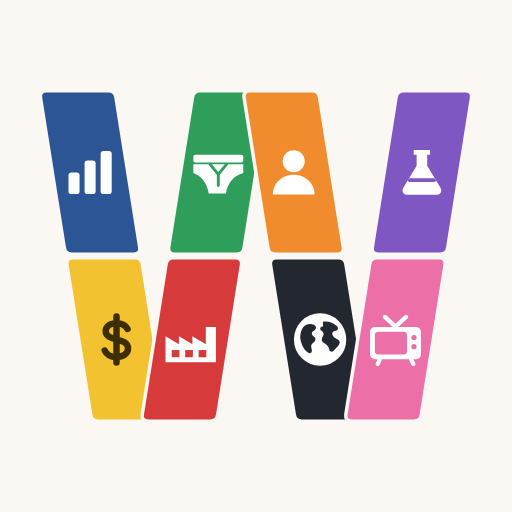
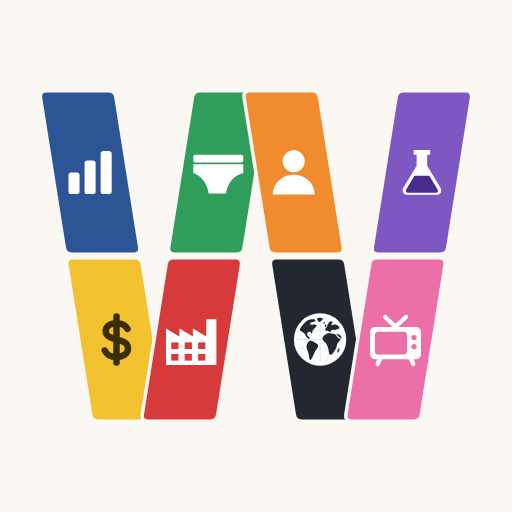
匯入廠商進貨時核對每張單的進貨總額；W 圖示第三版（工廠加高、燒瓶填色、地球大陸精細）
- 同一張單的品項總額加起來和單上的進貨總額比對，不同就在確認視窗列出單號
- 測試資料改用新範本的欄名（進貨單號／退貨單號）
- 圖示：工廠整體加高、三角褲拿掉 Y 字車線、燒瓶裡的水填深紫色並留空隙、地球的大陸畫精細

Claude-Session: https://claude.ai/code/session_01EbZCET9aCDKd8NzKoi6953

diff --git a/js/app.js b/js/app.js
@@ -1363,11 +1363,18 @@
     const rt = (g) => (!g ? '' : g.by === 'date' ? ROC_RANGE(g.from, g.to) : `單號月份 ${g.from === g.to ? ymLabel(g.from) : ymLabel(g.from) + '～' + ymLabel(g.to)}`);
     const rng = [P.range[0] && `進貨 ${rt(P.range[0])}`, P.range[1] && `退回 ${rt(P.range[1])}`].filter(Boolean).join('；');
     const vends = new Set(add.cols.vend).size;
+    // 同一張單的品項總額加起來，應該等於單上的進貨總額（只寫在第一列）
+    const sums = new Map();
+    add.src.forEach((sv, i) => { const k = sv + '|' + add.cols.ord[i]; const o = sums.get(k) || { s: 0, t: 0 }; o.s += add.cols.amt[i]; if (add.cols.tot[i]) o.t = add.cols.tot[i]; sums.set(k, o); });
+    const badTot = [...sums.entries()].filter(([, o]) => o.t && Math.abs(o.s - o.t) >= 1);
+    const withTot = [...sums.values()].filter((o) => o.t).length;
     const desc = `<p>「${esc(names)}」：<strong>${nf0.format(add.nIn)}</strong> 筆進貨、<strong>${nf0.format(add.nBk)}</strong> 筆退回廠商，${nf0.format(vends)} 家廠商（${esc(rng)}）。</p><ul>` +
       `<li>新的單：<strong>${nf0.format(nNew)}</strong> 張（進貨 ${nf0.format(P.nNew[0])}、退回 ${nf0.format(P.nNew[1])}），直接加入。</li>` +
       (nUpd ? `<li>網站裡已經有的單：${nf0.format(nUpd)} 張，改用新資料${P.nChanged ? `（其中 ${nf0.format(P.nChanged)} 張內容有變動）` : '（內容都一樣）'}。</li>` : '') + '</ul>' +
       (add.dated < add.n ? `<p class="hint">${nf0.format(add.n - add.dated)} 筆沒有打單日期，月份改用單號前 5 碼。</p>` : '') +
       (add.warning ? `<p class="warn">${esc(add.warning)}</p>` : '') +
+      (badTot.length ? `<p class="warn">有 <strong>${nf0.format(badTot.length)}</strong> 張單的品項總額加起來，和單上的「進貨總額」不一樣：${esc(ex(badTot, ([k, o]) => `${k.slice(2)}（品項合計 ${fmt.money(o.s)}、單上 ${fmt.money(o.t)}）`))}。網站用品項總額加總，請到系統確認這幾張單。</p>`
+        : withTot ? `<p class="hint">已核對：${nf0.format(withTot)} 張單的品項總額加起來，都等於單上的進貨總額。</p>` : '') +
       (miss.length ? `<p class="warn">這段期間內有 <strong>${nf0.format(miss.length)}</strong> 張單網站裡有、這次的檔案裡沒有，多半是系統裡已經作廢或刪除：${esc(ex(miss, (m) => (m.src ? '退回 ' : '') + m.ord))}</p><p class="hint">如果這次匯出的不是這段期間的全部資料，請不要勾選刪除。</p>` : '');
     const v = await ask({ title: '確認加入廠商進貨資料', desc, fields: [], submit: '加入',
       check: miss.length ? { name: 'del', label: `從網站刪除這 ${miss.length} 張系統裡已經沒有的單`, checked: false } : null });

diff --git a/sw.js b/sw.js
@@ -1,5 +1,5 @@
 // 離線快取：程式本身可離線開啟；資料存在 IndexedDB，不經過這裡。
-const VERSION = 'v36';
+const VERSION = 'v37';
 const SHELL = ['./', 'index.html', 'css/app.css', 'js/app.js', 'js/engine.js', 'js/dataset.js', 'js/chart.js', 'js/period.js', 'js/recv.js', 'js/recv-backup.js', 'js/buy.js', 'js/dashboard.js', 'js/report.js', 'js/today.js', 'js/compare.js', 'js/reps.js', 'js/board.js', 'js/demo.js', 'js/worker.js', 'js/xlsx-stream.js', 'js/dbf.js', 'js/office-crypto.js', 'js/ingest.js', 'manifest.webmanifest', 'icons/icon.svg', 'icons/icon-192.png', 'icons/icon-180.png'];
 self.addEventListener('install', (e) => { e.waitUntil(caches.open(VERSION).then((c) => c.addAll(SHELL)).then(() => self.skipWaiting())); });
 self.addEventListener('activate', (e) => { e.waitUntil(caches.keys().then((ks) => Promise.all(ks.filter((k) => k !== VERSION).map((k) => caches.delete(k)))).then(() => self.clients.claim())); });

diff --git a/tests/make_icon.py b/tests/make_icon.py
@@ -13,16 +13,25 @@ GL = ['chart', 'money', 'factory', 'briefs', 'person', 'globe', 'tv', 'lab']
 GLY = {
  'chart': '<rect x="3" y="12" width="4.6" height="9" rx="1.2"/><rect x="9.7" y="7" width="4.6" height="14" rx="1.2"/><rect x="16.4" y="3" width="4.6" height="18" rx="1.2"/>',
  'money': '<path d="M16.6 7.6c-.8-1.6-2.5-2.4-4.6-2.4-2.6 0-4.5 1.3-4.5 3.3 0 4.6 9.3 2.4 9.3 7.2 0 2.1-2 3.6-4.9 3.6-2.2 0-4-.9-4.8-2.7M12 2.4v19.2" fill="none" stroke="currentColor" stroke-width="2.7" stroke-linecap="round" stroke-linejoin="round"/>',
- # 工廠：煙囪短、廠房大
- 'factory': '<path d="M1 21.5V10.6l5.6 3.4v-3.4l5.6 3.4v-3.4l5.6 3.4V6.8h4.2v14.7z"/><rect x="3.6" y="16.4" width="3.2" height="3" fill="BG"/><rect x="9.2" y="16.4" width="3.2" height="3" fill="BG"/><rect x="14.8" y="16.4" width="3.2" height="3" fill="BG"/>',
+ # 工廠：煙囪短、廠房高（2026-11-17 第三版：整體加高、不加寬）
+ 'factory': '<path d="M1.2 22.6V7.4l5.6 3.4V7.4l5.6 3.4V7.4l5.6 3.4V3.6h4.2v19z"/><g fill="BG"><rect x="3.4" y="13.2" width="3" height="2.8"/><rect x="9" y="13.2" width="3" height="2.8"/><rect x="14.6" y="13.2" width="3" height="2.8"/><rect x="3.4" y="18" width="3" height="2.8"/><rect x="9" y="18" width="3" height="2.8"/><rect x="14.6" y="18" width="3" height="2.8"/></g>',
  'person': '<circle cx="12" cy="7.3" r="4.6"/><path d="M3.3 21.2c0-4.8 3.9-8.3 8.7-8.3s8.7 3.5 8.7 8.3z"/>',
- # 男生三角褲：腰頭、兩側有寬度、前面 Y 字車線
- 'briefs': '<rect x="1.6" y="4.6" width="20.8" height="3.2" rx=".8"/><path d="M1.6 8.6h20.8v3.6c-3.9 1-6.6 4.2-7.2 8.6H8C7.4 16.4 4.7 13.2 1.6 12.2z"/><path d="M8.6 8.6l3.4 4.2 3.4-4.2M12 12.8v4.6" fill="none" stroke="BG" stroke-width="1.2" stroke-linecap="round" stroke-linejoin="round"/>',
+ # 男生三角褲：腰頭、兩側有寬度（使用者說不要 Y 字車線）
+ 'briefs': '<rect x="1.6" y="4.6" width="20.8" height="3.2" rx=".8"/><path d="M1.6 8.6h20.8v3.6c-3.9 1-6.6 4.2-7.2 8.6H8C7.4 16.4 4.7 13.2 1.6 12.2z"/>',
  # 地球（上面有地圖）
- 'globe': '<circle cx="12" cy="12" r="10.2"/><g fill="BG"><path d="M5.7 6.2c1.6-.9 3.6-.8 4.4.3.6.8-.3 1.7-1.1 2.2-.8.6-.4 1.6.5 2.2 1 .7.6 2-.4 2.5-.9.5-1 1.6-.6 2.7.3 1-.2 1.9-1.1 1.5C5.6 17 4.4 14.4 3.9 12.4c-.5-2 .2-5 1.8-6.2z"/><path d="M13.2 4.6c2-.4 4.3.3 5.8 1.8.8.9.4 1.9-.5 2-1.2.1-1.7 1-1.2 1.9.5 1.1 1.7 1.3 2.6 2.1.6.6.2 1.7-.5 2.4l-1.9 2c-.6.6-1.6.3-1.7-.6-.2-1.4-1.2-2.1-2.3-2.8-1-.6-1-1.9-.3-2.8.6-.8.1-1.7-.6-2.2-.9-.7-.7-1.8.6-1.8z"/></g><circle cx="12" cy="12" r="10.2" fill="none" stroke="currentColor" stroke-width="1.4"/>',
+ # 地球：上面有大陸（北美、格陵蘭、南美、歐洲、英國、非洲、阿拉伯、馬達加斯加）和淡淡的經緯線（2026-11-17 使用者要求畫精細一點）
+ 'globe': '<circle cx="12" cy="12" r="10.2"/><g fill="none" stroke="#dfe4ea" stroke-width=".35"><ellipse cx="12" cy="12" rx="4.6" ry="10.2"/><path d="M12 1.8v20.4M2.6 8h18.8M2.6 16h18.8M1.8 12h20.4"/></g><g fill="BG">'
+   '<path d="M2.9 7.1C3.4 5.8 4.6 4.6 6.1 4c1.2-.4 2.5-.6 3.6-.4l.5.7-.8.3c-.4.3-1 .1-1.4.4-.4.3-.1.9.5.9.5.1.8-.3 1.3-.2l.8.5c-.2.6-.7 1-1.2 1.4-.4.4-.7.8-.6 1.4l-.2.7c-.3-.3-.4-.8-.8-.9-.6-.1-1 .2-1.2.7-.1.6.3 1.1.8 1.5l.4.7-.4.1c-.6-.4-1.2-.9-1.5-1.6-.3-.7-.9-1.2-1.6-1.5-.5-.3-1-.9-1.4-1.6z"/>'
+   '<path d="M10.6 3.2c.8-.4 2-.4 2.6.1-.2.8-.9 1.3-1.6 1.5-.5-.5-.8-1-1-1.6z"/><ellipse cx="13.7" cy="5.1" rx=".45" ry=".28"/>'
+   '<path d="M7.6 12.6c.7-.2 1.5.1 2.2.6.8.4 1.5.8 1.4 1.6-.2.8-.8 1.3-1.2 2-.4.8-.7 1.7-1.2 2.6-.4.7-.8 1.4-1.2 1.7-.1-.9-.1-1.9-.3-2.8-.2-1-.7-1.9-.9-2.9-.2-.9.4-2.5 1.2-2.8z"/>'
+   '<path d="M14.2 8.3c-.2-.7.2-1.3.7-1.6 0-.7.5-1.5 1.1-2.1.5-.4 1.1-.3 1.2.2-.4.5-.6 1-.3 1.4.5-.2.9-.6 1.5-.5.8.2 1.6.7 2 1.3l-.8.6c-.6-.1-1 .3-1.4.5-.6-.3-1.2-.2-1.6.1-.3.4-.2.7-.6.8-.4-.4-.7-.7-1.2-.6z"/><path d="M14 5.9c.4-.3.7.1.6.6-.2.4-.6.3-.7-.1z"/>'
+   '<path d="M14.1 10c.7-.6 1.7-.7 2.6-.5.7.1 1.3.1 1.8.5.5.6.8 1.3 1.5 1.6h.6c-.2.8-.8 1.4-1.3 2-.4.6-.3 1.4-.7 2.1-.4.9-1 1.7-1.6 2.4-.4.4-1 .3-1.2-.2-.3-.9-.2-1.9-.6-2.8-.3-.7-.5-1.5-1.2-2-.6-.4-1.1-1-1-1.7.1-.6.6-1 1.1-1.4z"/>'
+   '<path d="M18.8 9.7c.7-.1 1.4.3 1.9.8.3.4.3.7-.1.9-.6-.3-1.2-.8-1.8-1.7z"/><ellipse cx="19.6" cy="16.6" rx=".33" ry=".95" transform="rotate(18 19.6 16.6)"/></g>'
+   '<circle cx="12" cy="12" r="10.2" fill="none" stroke="currentColor" stroke-width="1.4"/>',
  # 電視：天線、螢幕、旋鈕
  'tv': '<path d="M7.6 2.6 12 6.6l4.4-4" fill="none" stroke="currentColor" stroke-width="1.8" stroke-linecap="round" stroke-linejoin="round"/><rect x="1.4" y="6.8" width="21.2" height="13.4" rx="2"/><rect x="3.4" y="8.8" width="13.4" height="9.4" rx="1.4" fill="BG"/><circle cx="19.7" cy="11.2" r="1.1" fill="BG"/><circle cx="19.7" cy="15" r="1.1" fill="BG"/><path d="M5.5 20.2 4.6 22.2M18.5 20.2l.9 2" stroke="currentColor" stroke-width="1.8" stroke-linecap="round"/>',
- 'lab': '<path d="M8.6 2.6h6.8v2h-1.2v4.6l5.6 9.3a1.8 1.8 0 0 1-1.5 2.8H5.7a1.8 1.8 0 0 1-1.5-2.8l5.6-9.3V4.6H8.6z"/><path d="M7 15.2h10" stroke="BG" stroke-width="1.6" stroke-linecap="round"/>',
+ # 燒瓶：裡面的水填深紫色，和瓶子之間留一圈白色空隙
+ 'lab': '<path d="M8.6 2.6h6.8v2h-1.2v4.6l5.6 9.3a1.8 1.8 0 0 1-1.5 2.8H5.7a1.8 1.8 0 0 1-1.5-2.8l5.6-9.3V4.6H8.6z"/><path d="M8.9 13.4h6.2l3.5 5.8a.8.8 0 0 1-.7 1.2H6.1a.8.8 0 0 1-.7-1.2z" fill="#4A2C8F"/>',
 }
 def para(cx, cy, a, b, t, sg, r):
     """斜的平行四邊形（上下邊水平），角稍微圓一點"""

diff --git a/tests/make_fixtures.py b/tests/make_fixtures.py
@@ -332,9 +332,9 @@ INC_FIELDS = [('DELIVNO', 'C', 9, 0), ('DELIVORD', 'C', 2, 0), ('CODE', 'C', 2, 
               ('RECDATE', 'C', 7, 0), ('RECEIVE', 'N', 12, 0), ('TOTBKPAY', 'N', 12, 0), ('PAY', 'L', 1, 0), ('CNFLAG', 'C', 1, 0), ('NRCHKDATE', 'C', 7, 0),
               ('NRRANGE', 'N', 4, 0), ('ALLOW', 'N', 4, 0), ('XID', 'C', 6, 0), ('XNAME', 'C', 20, 0), ('AMOUNT', 'N', 12, 0), ('DELIVDATE', 'C', 7, 0)]
 IBK_FIELDS = INC_FIELDS[:1] + [('SERIES', 'C', 4, 0)] + INC_FIELDS[1:]
-INC_HEAD = ['進貨日期', 'DELIVORD', '商品類別', '商品代號', '顏色代號', '單位', 'TRAN_RATE', '單價', '成本', '數量', '單位(數字)', '品項總額', 'RECDATE', 'RECEIVE',
+INC_HEAD = ['進貨單號', 'DELIVORD', '商品類別', '商品代號', '顏色代號', '單位', 'TRAN_RATE', '單價', '成本', '數量', '單位(數字)', '品項總額', 'RECDATE', 'RECEIVE',
             'TOTBKPAY', 'PAY', 'CNFLAG', 'NRCHKDATE', 'NRRANGE', 'ALLOW', '廠商代號', '廠商名', '進貨總額', '實際打單日期']
-IBK_HEAD = INC_HEAD[:1] + ['SERIES'] + INC_HEAD[1:-1] + ['打單日期']
+IBK_HEAD = ['退貨單號', 'SERIES'] + INC_HEAD[1:-1] + ['打單日期']
 VENDS = [('F01', '晨星織造'), ('F02', '和風針織'), ('F05', '巧手車縫')]
 
 

diff --git a/tests/e2e.py b/tests/e2e.py
@@ -691,6 +691,7 @@ async def buy_flow(b):
     await dlg_fill(pg, {'app': 'buy123', 'app2': 'buy123'})
     await pg.wait_for_selector('#dlg[open]', timeout=60000); t = await pg.text_content('#dlgForm')
     ok(f"{e1['nIn']} 筆進貨" in t and f"{e1['nBk']} 筆退回廠商" in t and '3 家廠商' in t, '四個 DBF 一起選：先匯客戶出貨退貨，再問要不要加入廠商進貨：' + t[:80])
+    ok(f"已核對：{e1['orders'] + e1['nBk']} 張單" in t, '核對每張單的品項總額加起來 = 單上的進貨總額')
     ok(await pg.evaluate('window.__app.E.ds.nSales') > 0, '客戶出貨資料已先匯入')
     await pg.click('#dlgOk')
     await pg.wait_for_selector('#dlg[open]'); t = await pg.text_content('#dlgForm')

diff --git a/CLAUDE.md b/CLAUDE.md
@@ -45,6 +45,7 @@ sw.js                 離線快取
 
 ### 主畫面圖示（2026-11-17 使用者設計）
 8 個斜的色塊組成 W（4 筆、每筆上下兩塊），沿著筆畫依序：藍＝銷售分析圖、黃＝錢、紅＝工廠（煙囪短、廠房大）、綠＝男生三角褲、橘＝人、黑＝地球（上面有地圖）、粉＝電視（行銷）、紫＝實驗室（燒瓶）。
+第三版（同日）：工廠整體加高（兩排窗）、三角褲不要 Y 字車線、燒瓶裡的水填深紫色並和瓶子留空隙、地球的大陸畫精細（北美、格陵蘭、南美、歐洲、非洲、阿拉伯＋淡經緯線）。
 第二版（同日使用者要求）：轉折處（兩個下尖角、中間尖角）兩筆疊上去 `OV`，切口俐落（小圓角、疊在上面的色塊有一圈底色細線）。
 `python tests/make_icon.py` 產生 `icons/icon.svg`、`icon-180.png`（iPhone 加入主畫面）、`icon-192/512.png`、`icon-maskable-512.png`（縮小到安全範圍）。首頁上方也放這個標誌（`.home-logo`）。
 
@@ -185,6 +186,7 @@ python tests/e2e.py                    # 瀏覽器實測，最後印出「全部
 新功能請在 `tests/e2e.py` 加對應的檢查。
 
 ## 目前進度與待辦（2026-11-17）
+2026-11-17 第四次：JMSINC 範本第一欄改叫「進貨單號」（同一張單多個品項，品項總額加起來 = 單上的進貨總額，已確認）；匯入時逐張核對品項合計和進貨總額，不同就列出單號。
 2026-11-17 第三次：使用者給了正確的 JMSINC 範本（品項總額 = 成本 × 數量，成本是每「打」的價錢、數量是打數 → 件數 × 12，和網站算法一樣；進貨總額仍和單上品項合計對不上，可能是範本只放了單的一部分，網站本來就不拿它加總）；銷售分析合計改藍色、c1 改青色；W 圖示第二版。
 2026-11-17 第二次：新增第三個應用「進貨分析」（紅、工廠，見「進貨分析」一節）；主畫面圖示改成 8 色塊的 W。待使用者用真正的 JMSINC／JMSIBK.DBF 試匯入、核對數字。
 2026-11-17：應收帳款自動備份成加密 Excel（見「應收帳款」一節）。
